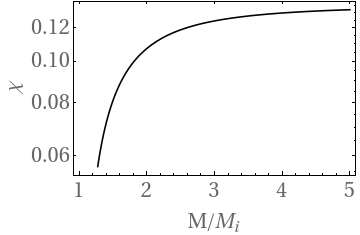
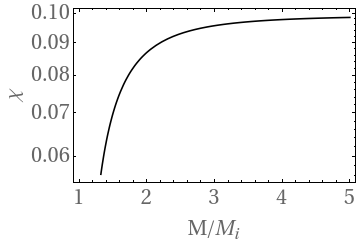
Fixing modified model and equilibrium spins.

diff --git a/_projects/END_spin/END_spin.html b/_projects/END_spin/END_spin.html
@@ -1041,7 +1041,7 @@ pre.editor-colors .fold-marker:after {
   <body class="markdown-preview-plus-view">
     <h1>SMBH spin up from ENDs</h1>
 <p><em>Motivation:</em> Tidally disrupting stars from an END a unique bimodal inclination distribution. This could affect the spin of the central SMBH. We will construct a model to quantify SMBH spin-up/spin-down in ENDs.</p>
-<p>First we show that for a Schwarschild SMBH to be spun up to near maximal spin it needs to consume an order unity fraction of its own mass. Then we consider SMBH spin–up from prograde and retrograde disruptions* with relative weights motivated by N–body simulations of ENDs. We find that that in this case the SMBH spin parameter reaches a relatively low saturation value of ~0.14.</p>
+<p>First we show that for a Schwarschild SMBH to be spun up to near maximal spin it needs to consume an order unity fraction of its own mass. Then we consider SMBH spin–up from prograde and retrograde disruptions* with relative weights motivated by N–body simulations of ENDs. We find that that in this case the SMBH spin parameter reaches a relatively low saturation value of ~0.1.</p>
 <p>*We consider spin–up from accretion of tidal debris in a thin disk aligned with the SMBH.</p>
 <p><em>Simple estimates:</em></p>
 <p>In the case of tidal disruption the initial angular momentum of the star places an upper bound on the angular momentum the SMBH can accrete.
@@ -1078,6 +1078,8 @@ The evolution equation for the spin parameter (<span class="math"><script type="
 </script></span>
 <p>The plot below shows the solution for <span class="math"><script type="math/tex">w_p=1</script></span> and <span class="math"><script type="math/tex">w_r=0.85</script></span> (as motivated by N–body simulations)</p>
 <p><img src="spin_bardeen_b.png" alt=""></p>
+<p>Finally, the plot below shows the equilibrium spin as a function of <span class="math"><script type="math/tex">w_r</script></span> (to find the equilibrium spin by setting <span class="math"><script type="math/tex">d \chi/dM</script></span> to zero).</p>
+<p><img src="spin_eq.png" alt=""></p>
 
   </body>
 </html>
